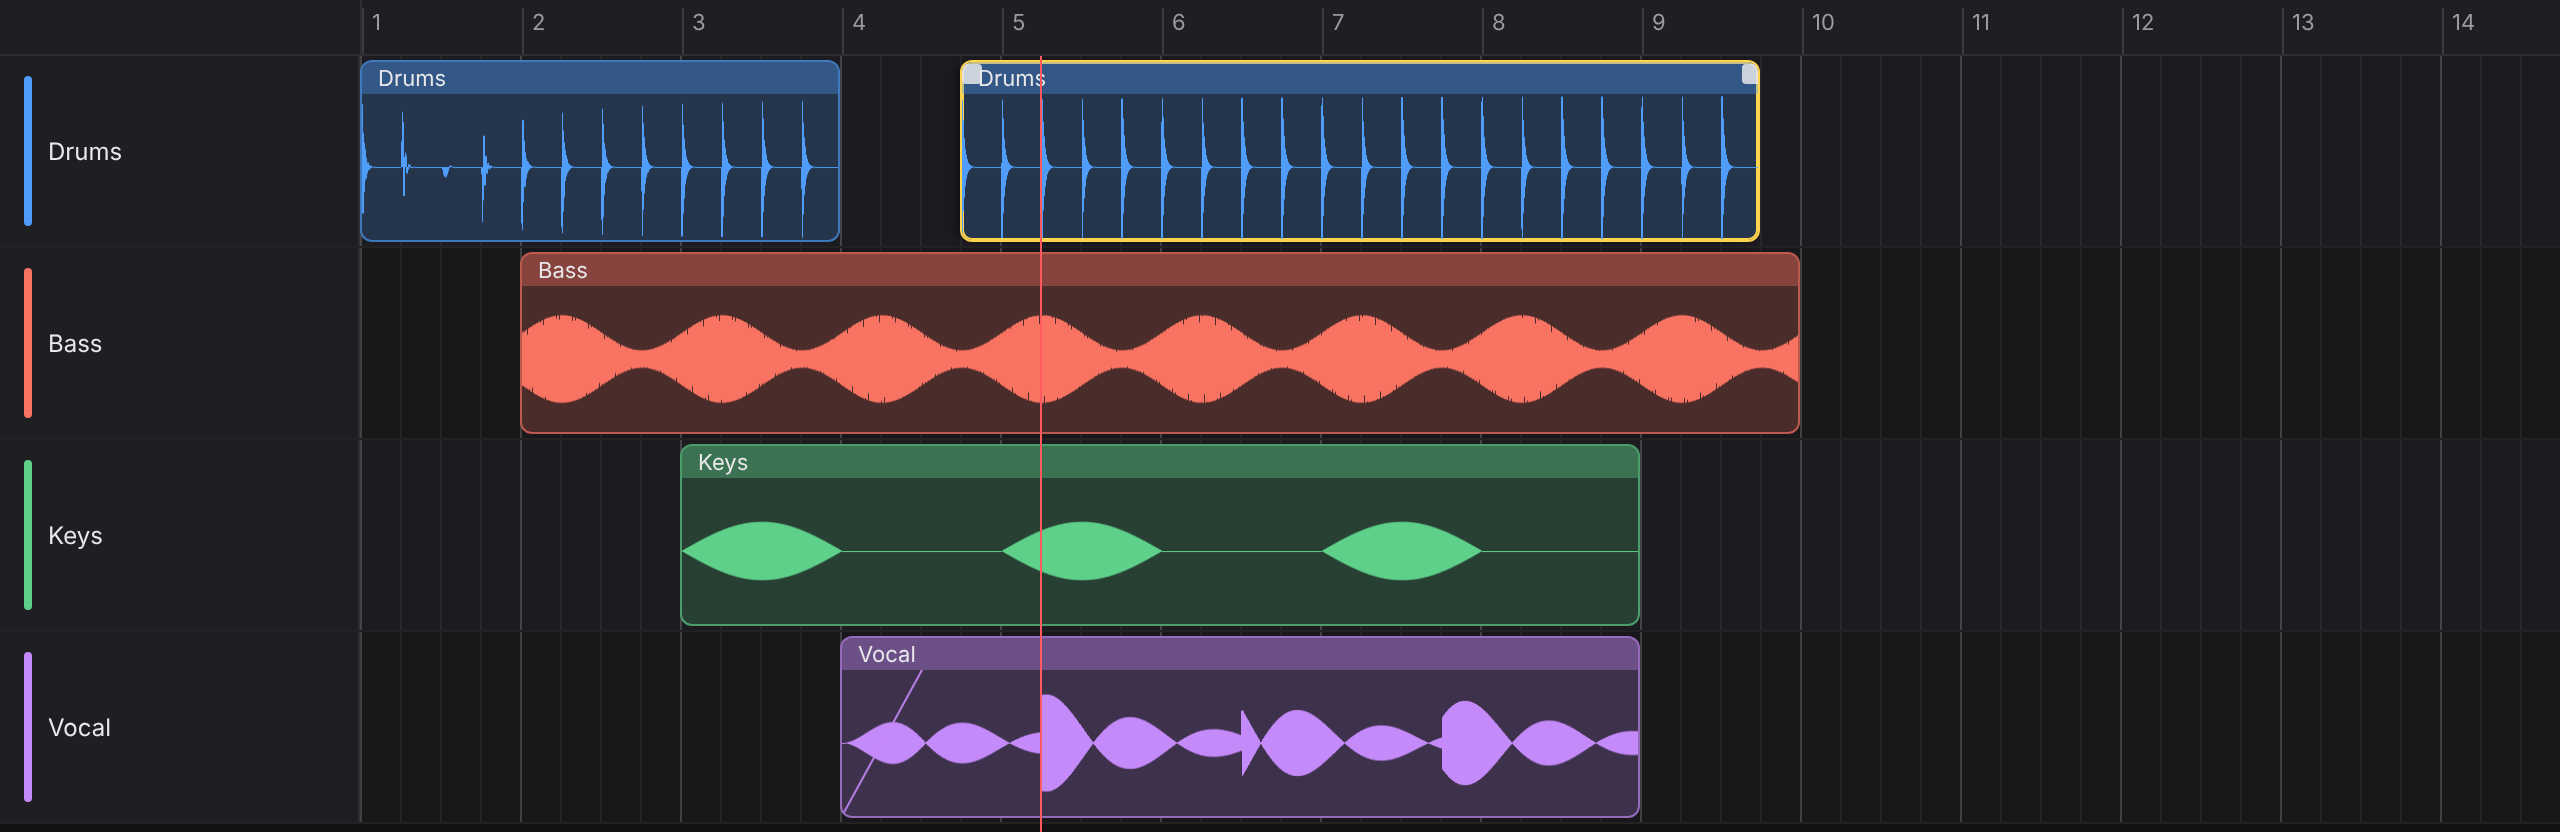
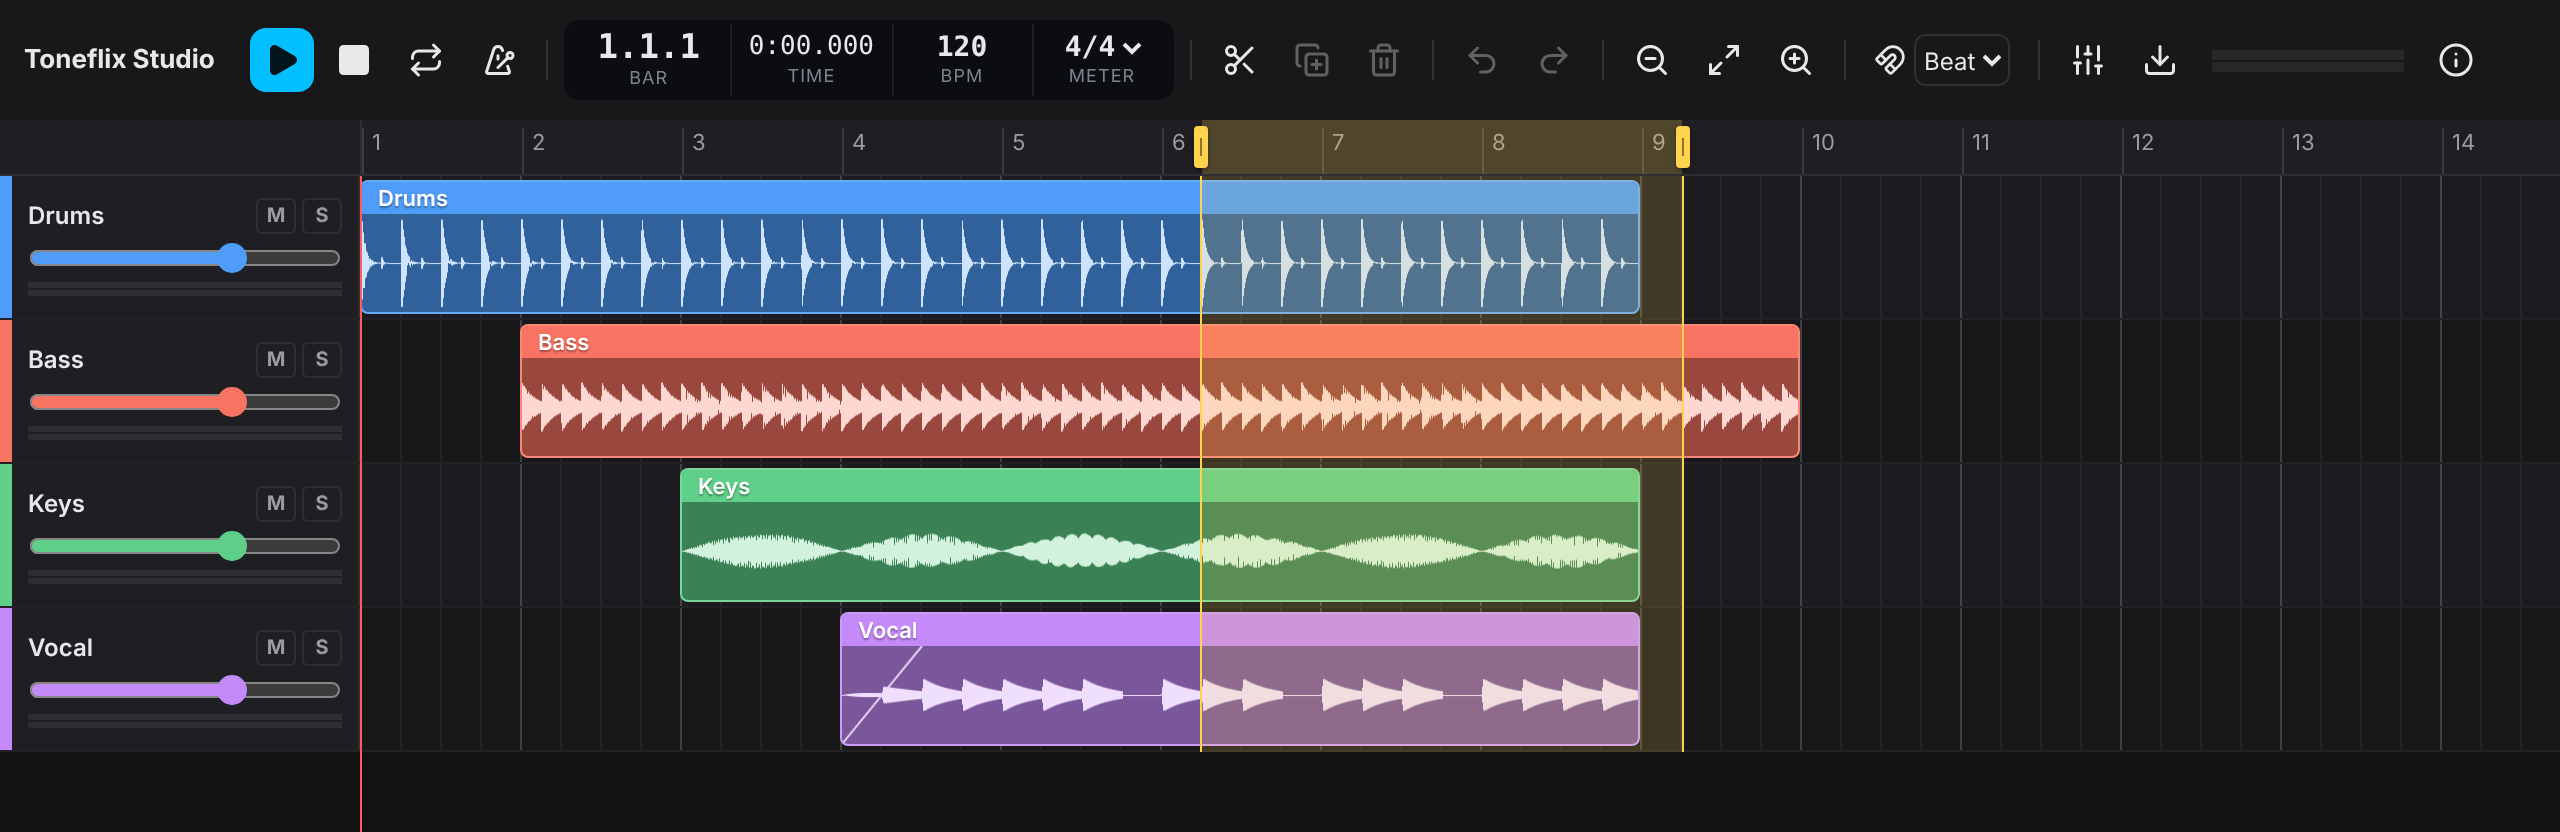
fix(timeline): split only the selection, range handles in the ruler
Split does nothing when no clip is selected and no range is set; a range
is cut at both edges. The range shows in the ruler with grips, and both
the grips and the lane edges resize it. README screenshot retaken.

diff --git a/packages/timeline/src/timeline.ts b/packages/timeline/src/timeline.ts
@@ -75,6 +75,7 @@ type Gesture =
   | { kind: 'move'; id: number; x: number; y: number; started: boolean; clip: Clip; ids: Set<string>; lane: number; base: TimelineState; track?: Track }
   | { kind: 'trim-start' | 'trim-end' | 'fade-in' | 'fade-out'; id: number; x: number; started: boolean; clip: Clip }
   | { kind: 'range'; id: number; x: number; y: number; started: boolean; time: number; lane: number; additive: boolean; ruler: boolean; touch: boolean }
+  | { kind: 'range-edge'; id: number; x: number; y: number; started: boolean; edge: 'start' | 'end'; range: TimeRange }
   | { kind: 'click-clip'; id: number; x: number; y: number; clip: Clip }
   | { kind: 'resize-track'; id: number; x: number; y: number; started: boolean; track: Track; height: number };
 
@@ -112,6 +113,7 @@ export class StudioTimeline extends Emitter<TimelineEvents> {
   private overlay: HTMLDivElement;
   private playhead: HTMLDivElement;
   private rangeEl: HTMLDivElement;
+  private rangeMark: HTMLDivElement;
   private loopEl: HTMLDivElement;
   private snapEl: HTMLDivElement;
   private trackRows = new Map<string, { row: HTMLDivElement; header: HTMLDivElement; lane: HTMLDivElement; grip: HTMLDivElement; cleanup?: () => void }>();
@@ -182,6 +184,14 @@ export class StudioTimeline extends Emitter<TimelineEvents> {
     this.loopEl = this.doc.createElement('div');
     this.loopEl.className = 'tfs-loop';
     this.rangeEl = el('div', 'tfs-range', this.overlay);
+    this.rangeMark = this.doc.createElement('div');
+    this.rangeMark.className = 'tfs-range-mark';
+
+    for (const edge of ['start', 'end']) {
+      el('div', 'tfs-range-edge', this.rangeEl).dataset.rangeEdge = edge;
+      el('div', 'tfs-range-grip', this.rangeMark).dataset.rangeEdge = edge;
+    }
+
     this.snapEl = el('div', 'tfs-snap', this.overlay);
     this.playhead = el('div', 'tfs-playhead', this.overlay);
     this.snapEl.style.display = 'none';
@@ -318,15 +328,36 @@ export class StudioTimeline extends Emitter<TimelineEvents> {
    * Split the selected clips at a time, or every clip under it when none are
    * selected. Only the left pieces stay selected, so the right ones drag alone.
    */
+  /**
+   * Split the selected clips at a time, the playhead by default. With no clips
+   * selected, a selected range is cut at both of its edges on its tracks.
+   * Nothing happens when nothing is selected.
+   */
   split(time = this.playheadTime) {
-    const ids = this.selected.size
-      ? this.selected
-      : new Set(this.state.clips.filter((clip) => clip.start < time && clipEnd(clip) > time).map((clip) => clip.id));
-    this.model.apply('Split', (state) => {
-      const result = splitClips(state, ids, time);
+    const range = this.currentRange;
 
-      return result.created.length ? result.state : state;
-    });
+    if (this.selected.size) {
+      const ids = this.selected;
+
+      this.model.apply('Split', (state) => {
+        const result = splitClips(state, ids, time);
+
+        return result.created.length ? result.state : state;
+      });
+    } else if (range) {
+      const at = (state: TimelineState, cut: number) => {
+        const ids = new Set(state.clips.filter((clip) => range.tracks.includes(clip.track) && clip.start < cut && clipEnd(clip) > cut).map((clip) => clip.id));
+
+        return ids.size ? splitClips(state, ids, cut).state : state;
+      };
+
+      this.model.apply('Split', (state) => at(at(state, range.start), range.end));
+    }
+  }
+
+  /** Whether `split()` has anything to cut: selected clips or a range. */
+  get canSplit() {
+    return this.selected.size > 0 || !!this.currentRange;
   }
 
   deleteSelected() {
@@ -580,18 +611,24 @@ export class StudioTimeline extends Emitter<TimelineEvents> {
       for (let time = Math.floor(from / step) * step; time < to; time += step) add(time, formatTime(time, step));
     }
 
-    this.ruler.replaceChildren(this.loopEl, ...labels);
+    this.ruler.replaceChildren(this.loopEl, this.rangeMark, ...labels);
   }
 
   private renderRange() {
     const range = this.currentRange;
     const style = this.rangeEl.style;
+    const mark = this.rangeMark.style;
 
     if (!range) {
       style.display = 'none';
+      mark.display = 'none';
 
       return;
     }
+
+    mark.display = 'block';
+    mark.left = `${range.start * this.pps}px`;
+    mark.width = `${(range.end - range.start) * this.pps}px`;
 
     const lanes = range.tracks.map((id) => this.state.tracks.findIndex((track) => track.id === id)).filter((i) => i >= 0);
     const ruler = this.ruler.offsetHeight;
@@ -694,6 +731,16 @@ export class StudioTimeline extends Emitter<TimelineEvents> {
       }
 
       this.gesture = { kind: 'resize-track', id: e.pointerId, x: e.clientX, y: e.clientY, started: false, track: resizing, height: this.heightOf(resizing) };
+      this.content.setPointerCapture?.(e.pointerId);
+
+      return;
+    }
+
+    const edge = target.closest<HTMLElement>('[data-range-edge]')?.dataset.rangeEdge as 'start' | 'end' | undefined;
+
+    if (edge && this.currentRange && !this.options.readonly) {
+      e.preventDefault();
+      this.gesture = { kind: 'range-edge', id: e.pointerId, x: e.clientX, y: e.clientY, started: false, edge, range: this.currentRange };
       this.content.setPointerCapture?.(e.pointerId);
 
       return;
@@ -805,6 +852,14 @@ export class StudioTimeline extends Emitter<TimelineEvents> {
       case 'fade-out':
         this.model.draft('Fade out', (state) => setFades(state, g.clip.id, { fadeOut: clipEnd(g.clip) - time }));
         break;
+      case 'range-edge': {
+        const moved = free || !this.options.showGrid ? time : this.grid.round(time);
+        const other = g.edge === 'start' ? g.range.end : g.range.start;
+
+        this.currentRange = { ...g.range, start: Math.max(0, Math.min(moved, other)), end: Math.max(moved, other) };
+        this.renderRange();
+        break;
+      }
       case 'range': {
         const snap = (t: number) => (free || !this.options.showGrid ? t : this.grid.round(t));
         const start = snap(Math.min(g.time, time));
@@ -851,6 +906,8 @@ export class StudioTimeline extends Emitter<TimelineEvents> {
       this.select([g.clip.id]);
     } else if (g.kind === 'range') {
       this.endRange(g);
+    } else if (g.kind === 'range-edge') {
+      if (g.started) this.setRange(this.currentRange);
     } else if (g.started) {
       const labels = { move: 'Move', 'trim-start': 'Trim', 'trim-end': 'Trim', 'fade-in': 'Fade in', 'fade-out': 'Fade out', 'resize-track': 'Resize track' } as const;
       this.model.commit(g.kind === 'move' && g.ids.size > 1 ? 'Move clips' : labels[g.kind]);

diff --git a/packages/timeline/src/styles.ts b/packages/timeline/src/styles.ts
@@ -71,6 +71,14 @@ export const STYLES = `
 .tfs-playhead { position: absolute; top: 0; bottom: 0; width: 1px; background: var(--tfs-playhead); }
 .tfs-playhead::before { content: ''; position: absolute; top: 0; left: -5px; border: 5px solid transparent; border-top: 7px solid var(--tfs-playhead); }
 .tfs-range { position: absolute; background: var(--tfs-range); border-left: 1px solid var(--tfs-select); border-right: 1px solid var(--tfs-select); }
+.tfs-range-edge { position: absolute; top: 0; bottom: 0; width: 9px; pointer-events: auto; cursor: ew-resize; touch-action: none; }
+.tfs-range-edge[data-range-edge='start'] { left: -5px; }
+.tfs-range-edge[data-range-edge='end'] { right: -5px; }
+.tfs-range-mark { position: absolute; top: 0; bottom: 0; z-index: 1; display: none; background: color-mix(in srgb, var(--tfs-select) 22%, transparent); pointer-events: none; }
+.tfs-range-grip { position: absolute; top: 3px; bottom: 3px; width: 7px; border-radius: 2px; background: var(--tfs-select); pointer-events: auto; cursor: ew-resize; touch-action: none; box-shadow: 0 1px 2px rgba(0, 0, 0, 0.4); }
+.tfs-range-grip::after { content: ''; position: absolute; left: 3px; top: 30%; bottom: 30%; width: 1px; background: rgba(0, 0, 0, 0.45); }
+.tfs-range-grip[data-range-edge='start'] { left: -4px; }
+.tfs-range-grip[data-range-edge='end'] { right: -4px; }
 .tfs-loop { position: absolute; top: 0; bottom: 0; box-sizing: border-box; background: color-mix(in srgb, var(--tfs-loop) 28%, transparent); border-left: 2px solid var(--tfs-loop); border-right: 2px solid var(--tfs-loop); pointer-events: none; }
 .tfs-snap { position: absolute; top: 0; bottom: 0; width: 1px; background: var(--tfs-select); opacity: 0.7; }
 `;

diff --git a/packages/controls/src/toolbar.ts b/packages/controls/src/toolbar.ts
@@ -99,7 +99,7 @@ export const DEFAULT_LABELS: ToolbarLabels = {
   stop: 'Stop',
   loop: 'Loop the selected range',
   metronome: 'Metronome',
-  split: 'Split at the playhead (S)',
+  split: 'Split the selection at the playhead, or a range at its edges (S)',
   duplicate: 'Duplicate (Ctrl+D)',
   delete: 'Delete (Del)',
   undo: 'Undo (Ctrl+Z)',
@@ -258,6 +258,7 @@ export class StudioToolbar {
     set('redo', (b) => (b.disabled = !timeline.history.canRedo));
     set('duplicate', (b) => (b.disabled = !timeline.selection.length));
     set('delete', (b) => (b.disabled = !timeline.selection.length));
+    set('split', (b) => (b.disabled = !timeline.canSplit));
     set('mixer', (b) => b.setAttribute('aria-pressed', String(!!this.mixer?.visible)));
 
     for (const { action, button } of this.actions.values()) {
@@ -479,7 +480,7 @@ export class StudioToolbar {
   private listen() {
     const refresh = () => this.refresh();
 
-    this.unsubscribe.push(this.timeline.history.on('change', refresh), this.timeline.on('select', refresh), this.timeline.on('change', refresh));
+    this.unsubscribe.push(this.timeline.history.on('change', refresh), this.timeline.on('select', refresh), this.timeline.on('range', refresh), this.timeline.on('change', refresh));
 
     if (this.mixer) this.unsubscribe.push(this.mixer.on('toggle', refresh));
 

diff --git a/docs/guide/editing.md b/docs/guide/editing.md
@@ -11,7 +11,8 @@ Clips are pieces of audio on a track. Each one says where it starts on the timel
 | Drag a clip edge | Trims it, up to the ends of its audio |
 | Drag a corner handle | Fade in or fade out |
 | Click / Shift click / Ctrl or ⌘ click | Select, add to the selection, toggle in the selection |
-| Drag on an empty track or the ruler | Selects a time range |
+| Drag on an empty track or the ruler | Selects a time range, also marked on the ruler |
+| Drag a range's handles | Moves its start or end, on the ruler or at its edges on the tracks |
 | Shift + drag on an empty track | Selects every clip inside the box |
 | Click the ruler or an empty track | Moves the playhead |
 | Alt while dragging | Turns snapping off |
@@ -26,7 +27,7 @@ While the timeline has focus:
 
 | Key | What it does |
 | --- | --- |
-| <kbd>S</kbd> | Split at the playhead: the selected clips, or every clip under the playhead |
+| <kbd>S</kbd> | Split the selected clips at the playhead, or cut a selected range at both edges. Does nothing when nothing is selected |
 | <kbd>Delete</kbd> / <kbd>Backspace</kbd> | Delete the selected clips |
 | <kbd>Ctrl</kbd>+<kbd>D</kbd> | Duplicate the selected clips right after themselves |
 | <kbd>Ctrl</kbd>+<kbd>A</kbd> | Select every clip |

diff --git a/docs/guide/controls.md b/docs/guide/controls.md
@@ -14,7 +14,7 @@ new StudioToolbar('#toolbar', { timeline, engine });
 linkPlayback(timeline, engine);
 ```
 
-The default toolbar has play, stop, loop and metronome, the transport display, split, duplicate, delete, undo, redo, zoom, fit, snap, export, the output meter and info. Undo, redo, duplicate and delete are disabled when there's nothing to do. Play turns into pause while playing.
+The default toolbar has play, stop, loop and metronome, the transport display, split, duplicate, delete, undo, redo, zoom, fit, snap, export, the output meter and info. Undo, redo, split, duplicate and delete are disabled when there's nothing to do. Play turns into pause while playing.
 
 Pick the buttons and their order with `items`. `'|'` adds a divider:
 

diff --git a/docs/api/timeline.md b/docs/api/timeline.md
@@ -54,7 +54,8 @@ Renders into `container`, which should have a height. The timeline fills it. Pas
 | `setZoom(pxPerSecond, anchor?)` | Zoom, keeping the `anchor` time in place |
 | `fit()` | Zoom to fit every clip |
 | `timeAt(clientX)` | The time under a point on screen |
-| `split(time?)` | Split at a time (the playhead by default) |
+| `split(time?)` | Split the selected clips at a time (the playhead by default), or a selected range at its edges; nothing happens when nothing is selected |
+| `canSplit` | Whether there's a selection or range to split |
 | `deleteSelected()` / `duplicateSelected()` | |
 | `nudge(seconds, tracks?)` | Move the selected clips |
 | `undo()` / `redo()` | |
